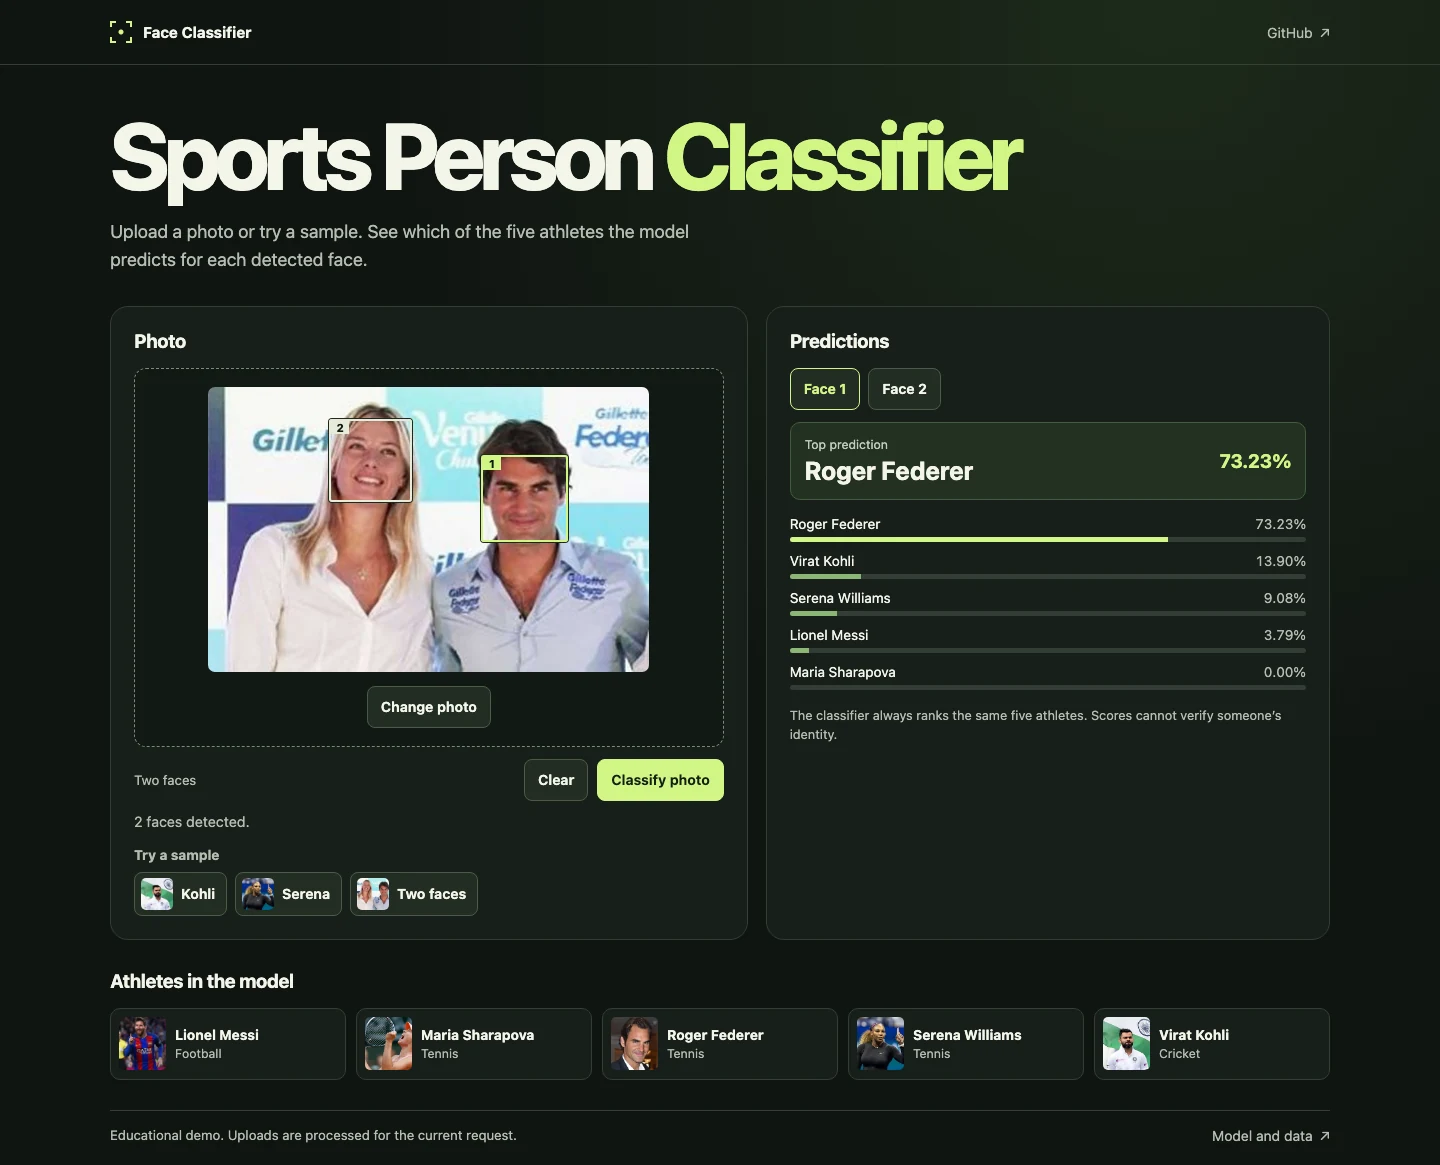
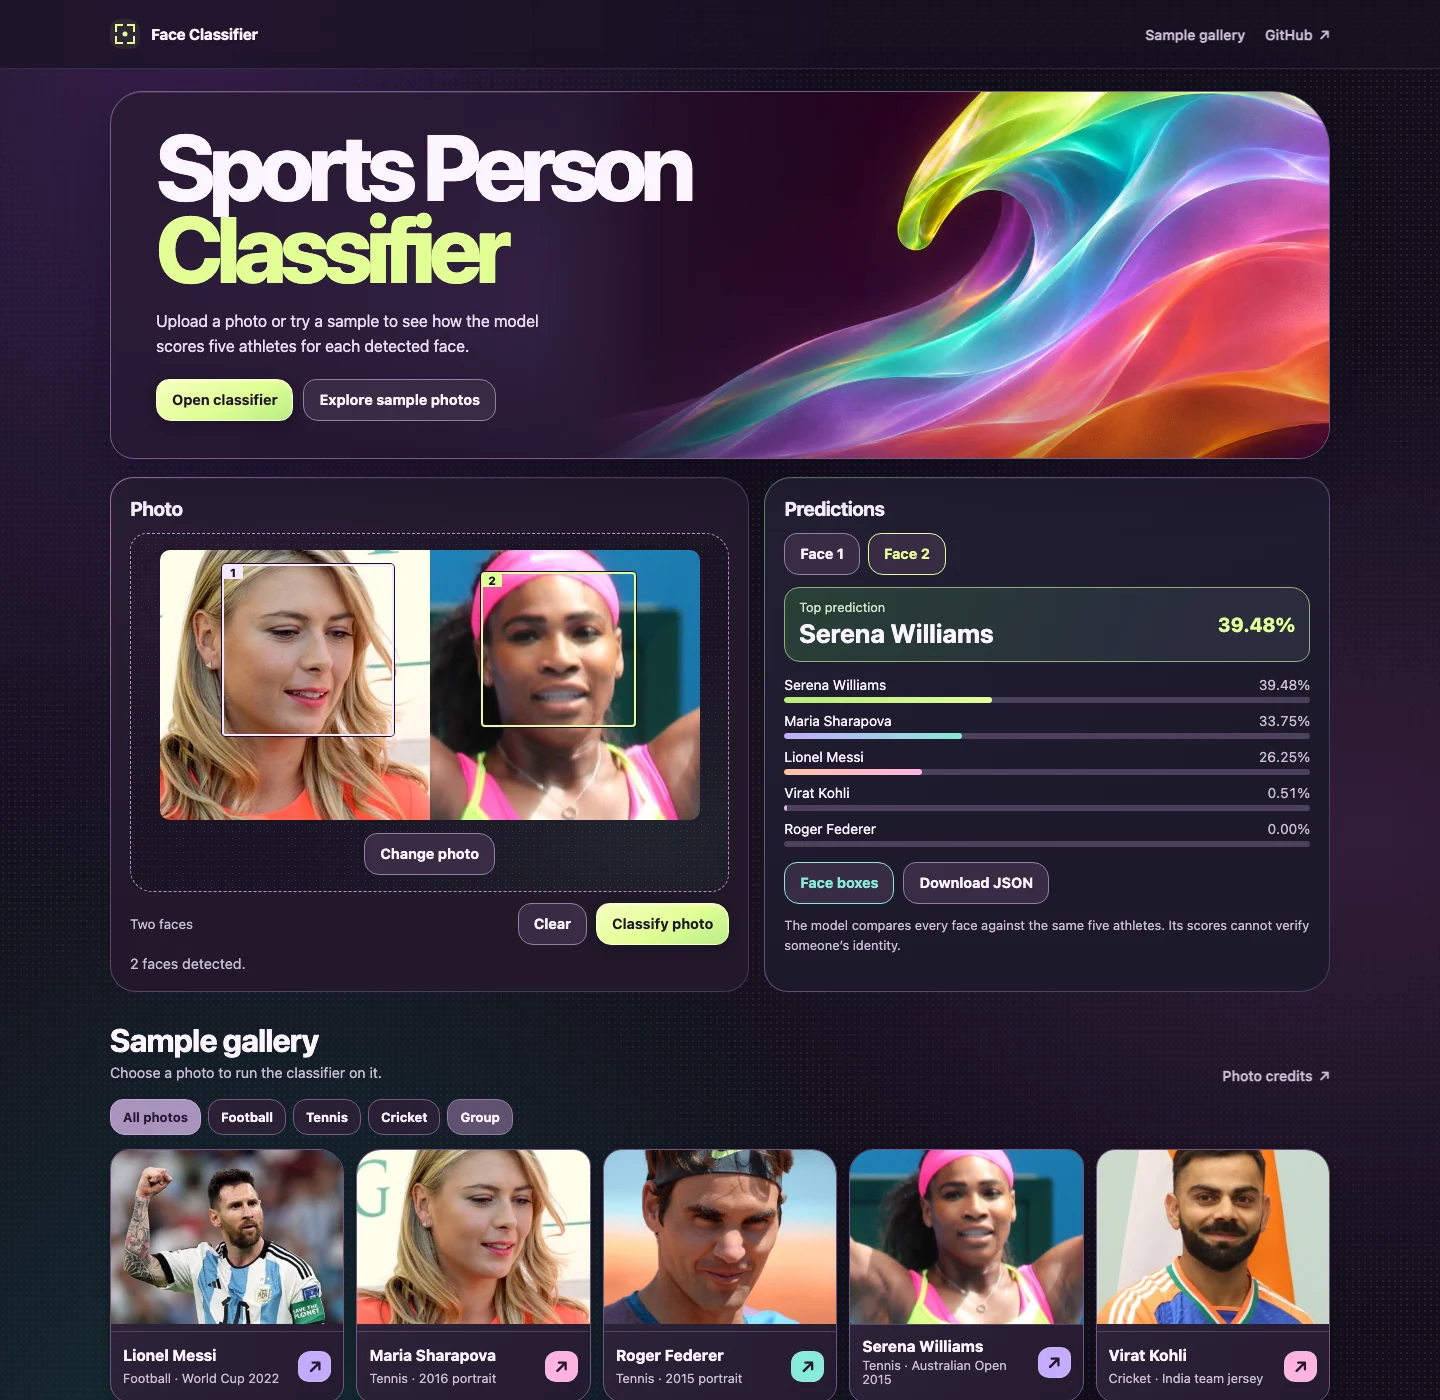
Refresh the README and preview for the expanded demo

diff --git a/README.md b/README.md
@@ -2,9 +2,9 @@
 
 [![CI](https://github.com/prathamkashyap/Facial-Image-Classification/actions/workflows/ci.yml/badge.svg?branch=main)](https://github.com/prathamkashyap/Facial-Image-Classification/actions/workflows/ci.yml)
 
-An interactive image classification demo for Lionel Messi, Maria Sharapova, Roger Federer, Serena Williams, and Virat Kohli. Upload a photo or open a built-in sample to inspect each qualifying face and compare the model’s five class scores.
+An interactive image classification demo for Lionel Messi, Maria Sharapova, Roger Federer, Serena Williams, and Virat Kohli. Upload a photo or pick from ten gallery examples to inspect each qualifying face and compare the model’s five class scores.
 
-![Browser demo showing two boxed faces and ranked model scores](docs/classifier-preview.webp)
+![Jelly-wave classifier demo with a two-face sample and ranked model scores](docs/classifier-preview.webp)
 
 ## Run locally
 
@@ -21,12 +21,12 @@ python -m server.server
 
 On Windows, create the environment with `py -3.11 -m venv .venv` and activate it from PowerShell with `.venv\Scripts\Activate.ps1`.
 
-Open [the local app](http://127.0.0.1:8000), then select **Two faces** to try the result picker. The app accepts JPEG, PNG, and WebP up to 8 MiB, 12 megapixels, and 6,000 pixels per side. Uploads are processed for the current request.
+Open [the local app](http://127.0.0.1:8000), then select **Two faces** in the **Sample gallery** to try the result picker. Filter the gallery by sport, toggle the face boxes, or download all predictions as JSON. The app accepts JPEG, PNG, and WebP up to 8 MiB, 12 megapixels, and 6,000 pixels per side. Uploads are processed for the current request.
 
 ### CLI and Streamlit
 
 ```bash
-python -m server.predict UI/test_images/sharapova_3.jpg
+python -m server.predict UI/samples/tennis-pair.webp
 ```
 
 The CLI prints the same JSON result as the HTTP endpoint. The optional Streamlit interface uses the same image decoder and classifier.
@@ -40,7 +40,7 @@ python -m streamlit run app.py
 
 ```bash
 curl -fsS http://127.0.0.1:8000/healthz
-curl -fsS -F "image=@UI/test_images/sharapova_3.jpg" \
+curl -fsS -F "image=@UI/samples/tennis-pair.webp" \
   http://127.0.0.1:8000/api/v1/classify
 ```
 
@@ -58,9 +58,9 @@ The API reports missing input as `400`, request or image size limits as `413`, u
 
 OpenCV detects faces and checks for two visible eyes. Each qualifying crop becomes a 4,096-value vector that combines resized color pixels and Haar-wavelet detail. The bundled scikit-learn pipeline standardizes those features and ranks the five fixed classes.
 
-The model gives a score for each class even for a person outside the roster. Treat the scores as relative model output for this educational demo and avoid using them to verify identity. Cropping, lighting, and pose can change the results. The bundled photos demonstrate the interface. They are unsuitable for an independent accuracy estimate because their relationship to the original training set is undocumented.
+The model gives a score for each class even for a person outside the roster. Treat the scores as relative model output for this educational demo and avoid using them to verify identity. Cropping, lighting, and pose can change the results. The gallery photos were selected to demonstrate the interface, so their results are unsuitable for estimating accuracy. [Sample photo credits](docs/PHOTO_CREDITS.md)
 
-The original training dataset lives outside this repository. The bundled training artifact was serialized with scikit-learn 1.6.1, which is pinned for compatibility. Load joblib artifacts only from sources you trust. The repository’s sample photos retain their original rights and have incomplete provenance records. [scikit-learn model persistence](https://scikit-learn.org/stable/model_persistence.html)
+The original training dataset lives outside this repository. The bundled training artifact was serialized with scikit-learn 1.6.1, which is pinned for compatibility. Load joblib artifacts only from sources you trust. The current gallery uses credited Wikimedia Commons photos. Older test fixtures have incomplete provenance records. [scikit-learn model persistence](https://scikit-learn.org/stable/model_persistence.html)
 
 ### Retrain with your own labeled photos
 
@@ -77,7 +77,7 @@ dataset/
 
 ```bash
 python -m server.train --dataset /path/to/dataset --output outputs/run-01
-CLASSIFIER_ARTIFACT_DIR=outputs/run-01 python -m server.predict UI/test_images/sharapova_3.jpg
+CLASSIFIER_ARTIFACT_DIR=outputs/run-01 python -m server.predict UI/samples/tennis-pair.webp
 ```
 
 The trainer uses the same feature extraction as inference and keeps images with one qualifying face. It removes identical feature vectors before a seeded, stratified 75/25 split. It writes a fitted model, the class dictionary, and `evaluation.json` into a new directory. The report includes screening counts, per-class precision and recall, F1, and a confusion matrix with actual classes on rows and predictions on columns. Near-duplicate photos can still inflate scores, so use an independently sourced test set to assess generalization.
@@ -94,6 +94,6 @@ node --check UI/app.js
 python -m pytest -q
 ```
 
-GitHub Actions runs these checks on Linux for Python 3.11 and 3.12. The test suite covers valid and invalid uploads, image limits, orientation, multiple faces, legacy response compatibility, and training artifact creation.
+GitHub Actions runs these checks on Linux for Python 3.11 and 3.12. The test suite covers valid and invalid uploads, image limits, orientation, multiple faces, legacy response compatibility, training artifact creation, and all ten gallery examples.
 
 The browser interface lives in [`UI/`](UI/), the Flask API and inference code in [`server/`](server/), and the automated tests in [`tests/`](tests/). The [Procfile](Procfile) starts Gunicorn on the host’s `PORT` on Unix.
